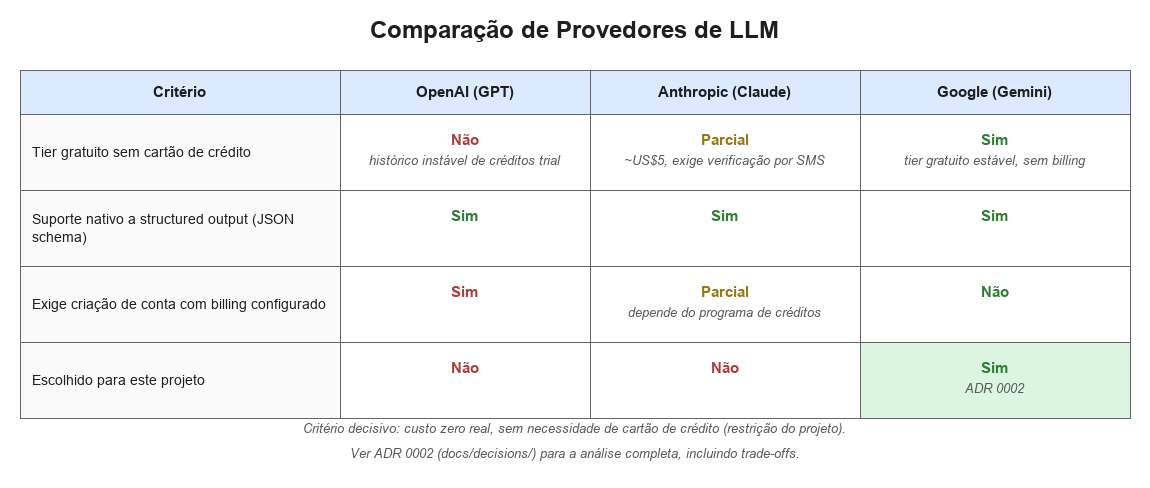
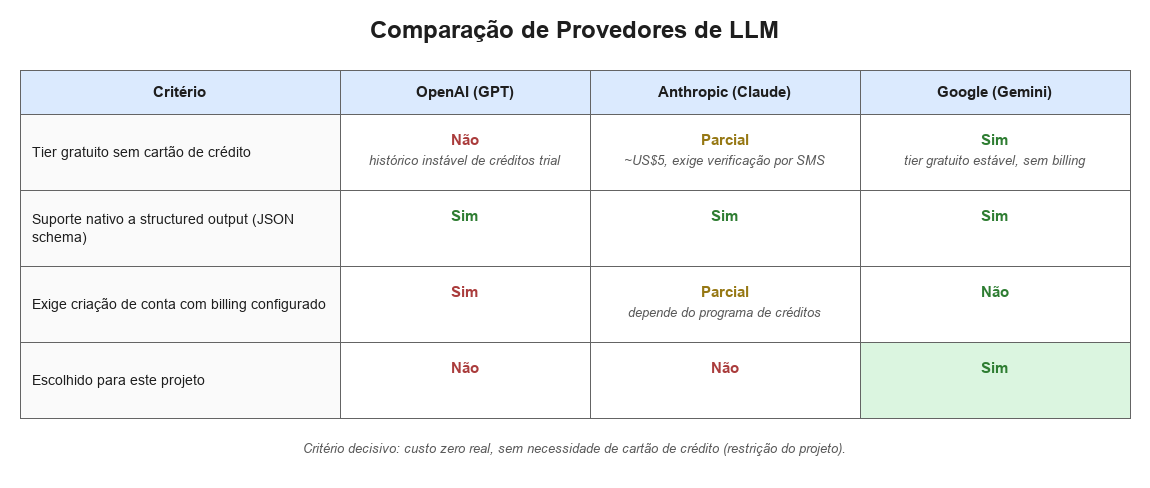
docs: remove ADRs e ajusta relatorio (orcamento, dificuldades)
- Remove docs/decisions/ (ADRs) do repositorio; o raciocinio de cada
  decisao ja estava explicado inline no texto das atividades, entao
  os arquivos separados eram redundantes.
- README atualizado, sem referencias aos arquivos removidos.
- Diagramas de comparacao de LLM e visao do projeto atualizados
  (sem mencao a ADR; direcionamento de produto decidido: controle
  de gastos como base do 1o semestre, evoluindo para assistente de
  orcamento no 2o semestre).

Changed region(s): [[0.2739, 0.8607, 0.7304, 0.9529], [0.8522, 0.7684, 0.8826, 0.7992]]

diff --git a/README.md b/README.md
@@ -19,7 +19,7 @@ Exemplos de mensagens que o sistema já interpreta:
 
 ## Arquitetura
 
-Solução em 4 camadas, inspirada em Clean Architecture (porém deliberadamente simplificada — ver [ADR 0003](docs/decisions/0003-arquitetura-em-camadas-simplificada.md)):
+Solução em 4 camadas, inspirada em Clean Architecture (porém deliberadamente simplificada, evitando CQRS/MediatR e repositório genérico — cerimônias que não se justificam para um projeto solo de um semestre):
 
 ![Diagrama de arquitetura](docs/diagrams/architecture-diagram.png)
 
@@ -41,8 +41,6 @@ Visão do projeto (1º vs. 2º semestre): [docs/diagrams/roadmap-diagram.png](do
 - xUnit + Moq (testes automatizados)
 - Swagger / Swashbuckle
 
-Decisões técnicas documentadas em [`docs/decisions/`](docs/decisions/) (ADRs), incluindo as alternativas consideradas para cada escolha.
-
 ## Como rodar localmente
 
 Pré-requisitos: .NET 10 SDK, uma instância PostgreSQL (ex: Neon, gratuito), uma chave de API do Gemini (gratuita em [aistudio.google.com](https://aistudio.google.com)).
@@ -61,7 +59,7 @@ dotnet run --project src/Nexo.Api
 
 ### Testando o fluxo completo
 
-O endpoint abaixo simula o recebimento de uma mensagem do WhatsApp (o contrato de entrada é inspirado no payload real do WhatsApp Cloud API — ver [ADR 0004](docs/decisions/0004-simulacao-do-webhook-whatsapp.md)):
+O endpoint abaixo simula o recebimento de uma mensagem do WhatsApp (o contrato de entrada é inspirado no payload real do WhatsApp Cloud API, para que a integração real no futuro seja só uma troca de webhook, sem alterar a lógica de negócio):
 
 ```bash
 curl -X POST http://localhost:5080/api/webhook/whatsapp \
@@ -92,7 +90,6 @@ tests/
 tools/
   Nexo.GeminiEval/      avaliação de acurácia do parser (manual)
 docs/
-  decisions/            ADRs (registros de decisão arquitetural)
   diagrams/              diagramas de arquitetura, modelo de dados e visão do projeto
   avaliacao-gemini.md    resultado da avaliação de acurácia
 ```
